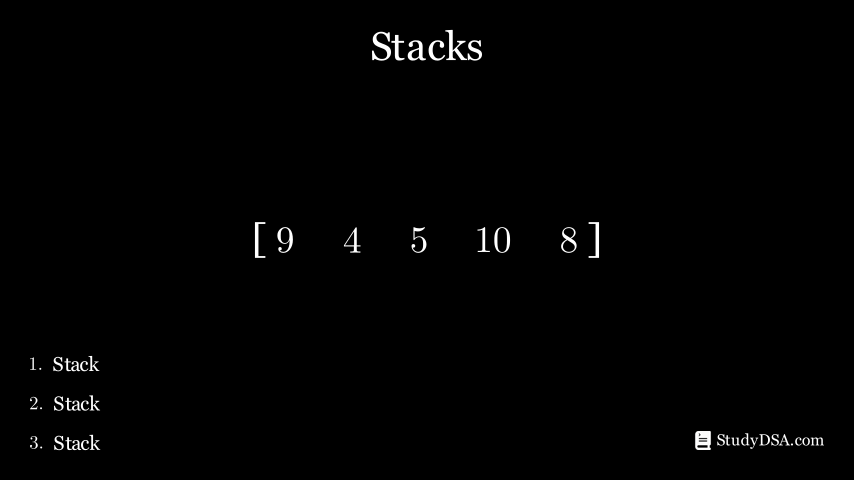
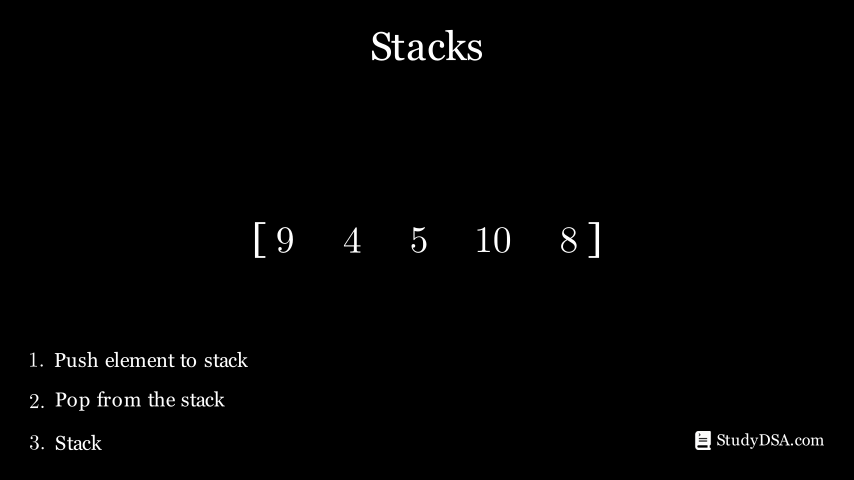
Upgrading steps

Changed region(s): [[0.0304, 0.7188, 0.3044, 0.7812], [0.0304, 0.8125, 0.274, 0.875], [0.0304, 0.9062, 0.1218, 0.9375]]

diff --git a/components/Steps.py b/components/Steps.py
@@ -1,4 +1,4 @@
-from manim import VGroup, Text, MathTex, DOWN, RIGHT, LEFT, DL
+from manim import VGroup, Text, MathTex, UP, DOWN, RIGHT, LEFT, DL
 from typing import List
 
 class Steps:
@@ -9,7 +9,7 @@ class Steps:
         step_texts (List[str]): Array of strings representing the steps.
         font_size (int): Font size for the steps.
         step_size (int): Font size for the step numbers.
-        buff (float): Buffer between the steps.
+        line_spacing (float): Buffer between the steps.
         scale (float): Scale factor for the steps.
     """
 
@@ -17,9 +17,8 @@ class Steps:
         self,
         step_texts: List[str],
         font_size: int = 24,
-        step_size: int = 30,
-        buff: float = 0.4,
-        scale: float = 0.5,
+        step_size: int = 34,
+        line_spacing: float = 0.4,
     ):
         """
         Initializes the Steps object with specified parameters.
@@ -28,14 +27,12 @@ class Steps:
             step_texts (List[str]): Array of strings representing the steps.
             font_size (int, optional): Font size for the steps. Defaults to 24.
             step_size (int, optional): Font size for the step numbers. Defaults to 30.
-            buff (float, optional): Buffer between the steps. Defaults to 0.4.
-            scale (float, optional): Scale factor for the steps. Defaults to 0.5.
+            line_spacing (float, optional): Buffer between the steps. Defaults to 0.4.
         """
         self.step_texts = step_texts
         self.font_size = font_size
         self.step_size = step_size
-        self.buff = buff
-        self.scale = scale
+        self.line_spacing = line_spacing
         self.steps = self.create_steps()
 
     def create_steps(self) -> VGroup:
@@ -52,11 +49,7 @@ class Steps:
             step_group = VGroup(step_number, step_text).arrange(RIGHT, buff=0.2)
             steps.add(step_group)
         
-        steps.arrange(DOWN, buff=self.buff)
-
-        for step in steps:
-            step.align_to(steps, LEFT)
-
+        steps.arrange(DOWN, center=False, aligned_edge=LEFT, buff=self.line_spacing)
         steps.to_corner(DL)
         
         return steps

diff --git a/Arrays.py b/Arrays.py
@@ -171,7 +171,7 @@ class Stacks(Scene):
         self.title = Text("Stacks").to_edge(UP, buff=0.5)
 
         # Adding educational steps
-        steps = Steps(["Stack", "Stack", "Stack"], scale=1)
+        steps = Steps(["Push element to stack", "Pop from the stack", "Stack"])
         self.steps = steps.create_steps()
 
         self.nums = [0, 1, 2, 3, 4, 5]
